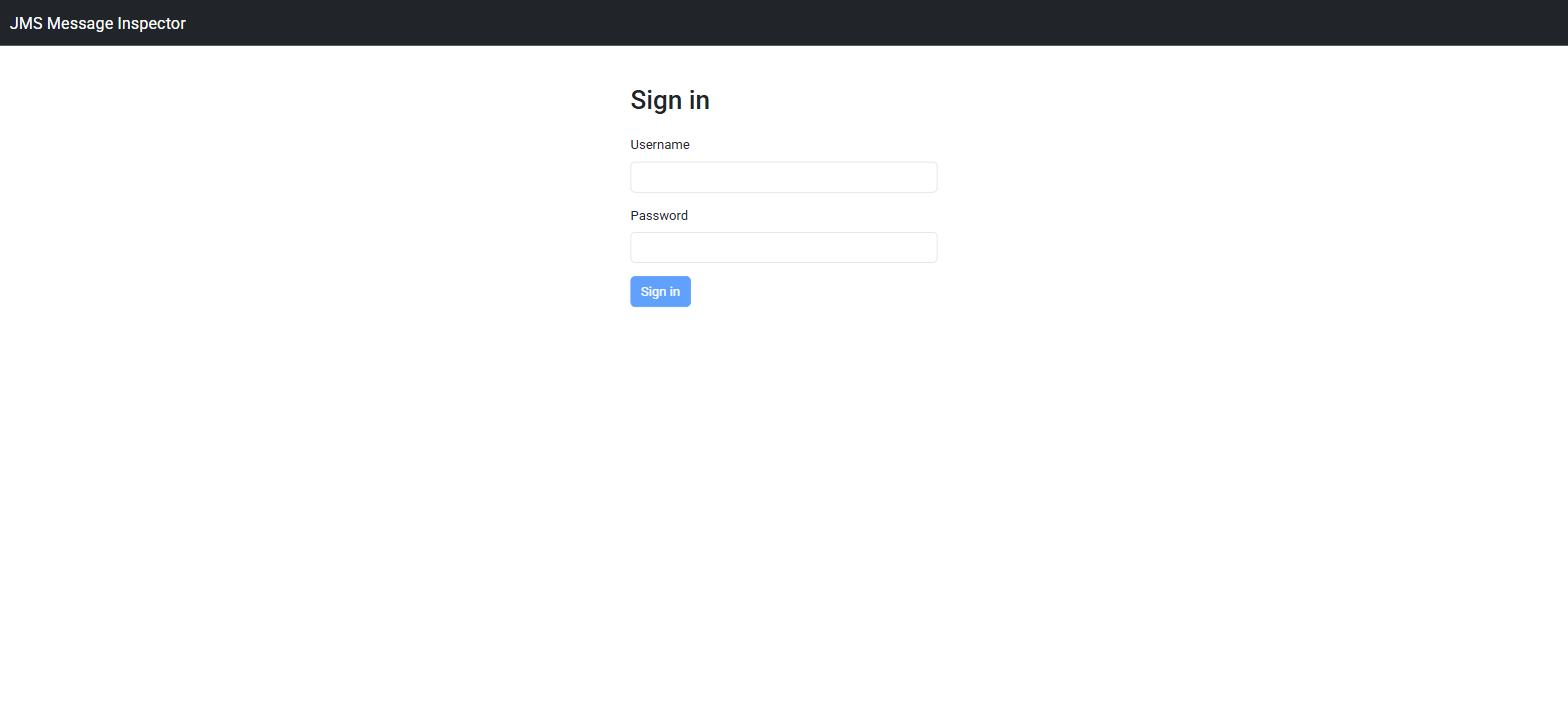
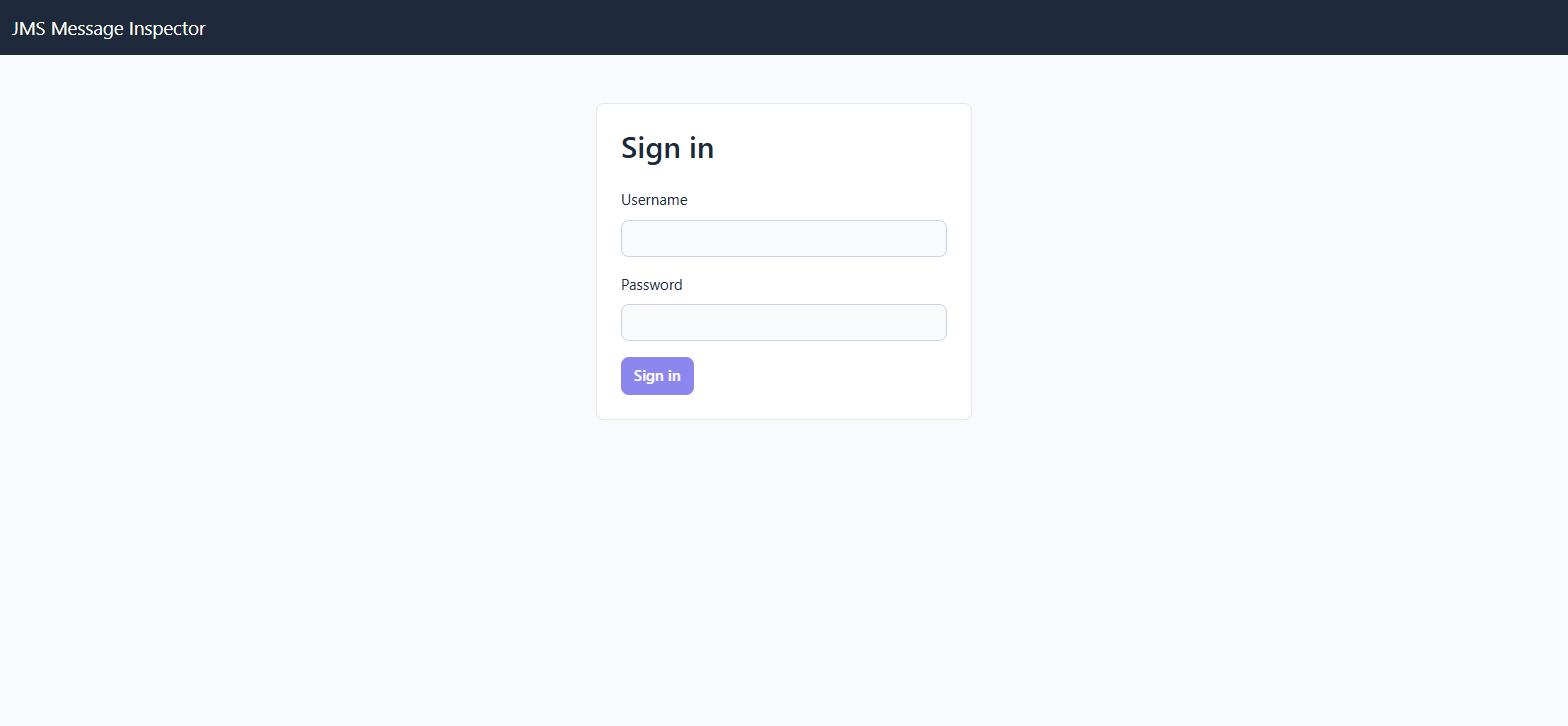
docs: update for Angular 22, Node 24 and lint; recapture screenshots

diff --git a/CLAUDE.md b/CLAUDE.md
@@ -11,20 +11,25 @@ block over any phase numbering left behind in code comments.
 
 ## Commands
 
-Angular CLI 16 project (`ng` via `npx ng` or the npm scripts):
+Angular CLI 22 project on **Node 24** (`ng` via `npx ng` or the npm scripts):
 
 - `npm start` — dev server on http://localhost:4200 (`ng serve`, development config)
-- `npm run build` — production build to `dist/message-inspector-ui`
+- `npm run build` — production build to `dist/message-inspector-ui/browser/` (the esbuild
+  `@angular/build:application` builder's layout — not `dist/message-inspector-ui` itself)
 - `npm run watch` — incremental development build
 - `npm test` — Karma + Jasmine in a launched Chrome, watch mode
+- `npm run lint` — angular-eslint over `src/**/*.ts` and `src/**/*.html`
 - `npm run mock` — the mock backend on :8080 in place of the real Spring/Artemis stack
 
-Running a subset of tests: there is no `karma.conf.js` (the CLI karma builder generates the
-config), so use Jasmine focus instead — change `describe`/`it` to `fdescribe`/`fit` in the spec,
-or filter in the Karma browser UI. For a single non-watch run:
-`npx ng test --watch=false --browsers=ChromeHeadless`.
+Running a subset of tests: there is no `karma.conf.js` (the `@angular/build:karma` builder
+generates the config), so pass `--include src/app/path/to/file.spec.ts` to `ng test`, or use
+Jasmine focus — change `describe`/`it` to `fdescribe`/`fit` in the spec, or filter in the Karma
+browser UI. For a single non-watch run: `npx ng test --watch=false --browsers=ChromeHeadless`.
 
-There is no linter configured and no e2e setup.
+**Lint** is angular-eslint's recommended set (`eslint.config.js`, flat config) with three rules
+turned off, each commented with why: `prefer-standalone` (NgModule by design),
+`prefer-on-push-component-change-detection` (Eager on purpose, see Architecture) and
+`prefer-inject` (constructor injection is the house style). There is no e2e setup.
 
 **Mock backend** (`mock-server/`, its own README): a zero-dependency `node:http` stand-in for
 the Spring/Artemis stack, so the UI runs with no Docker, broker or JVM. `npm run mock` serves
@@ -33,16 +38,30 @@ failure modes — the 200-with-`success:false` envelope, the bodyless 401 and 40
 — none of which are otherwise reachable without breaking a real broker. It is hand-written
 against the backend, so **the backend is the authority whenever the two disagree**.
 
-**CI** (`.github/workflows/ci.yml`, Phase 7): on push/PR to `master`, `npm ci` → the
-headless test command above → `npm run build`. Node is pinned to **20.11.1** via `.nvmrc`
-(Angular 16 rejects Node 24), read by the workflow through `node-version-file`. ubuntu-latest
+**CI** (`.github/workflows/ci.yml`, Phase 7): on push/PR to `master`, `npm ci` →
+`npm run lint` → the headless test command above → `npm run build`. Node is pinned to
+**24.18.0** via `.nvmrc` (Angular 20+ rejects the old 20.11.1 pin; Angular 22 accepts
+`^22.22.3 || ^24.15 || >=26`), read by the workflow through `node-version-file`. ubuntu-latest
 ships Google Chrome for the ChromeHeadless run.
 
 ## Architecture
 
-Angular 16 **NgModule** app (not standalone components) — everything is declared in
-`src/app/app.module.ts`. Frontend only; it talks to a separate Spring/JMS backend expected at
+Angular 22 **NgModule** app (not standalone components) — everything is declared in
+`src/app/app.module.ts`, and every declaration carries `standalone: false` (standalone is the
+default since Angular 19). Frontend only; it talks to a separate Spring/JMS backend expected at
 `http://localhost:8080`.
+
+**Change detection is zone-based and Eager, deliberately.** `main.ts` bootstraps through
+`platformBrowser()` with `provideZoneChangeDetection()`, and zone.js is still loaded. Every
+component declares `changeDetection: ChangeDetectionStrategy.Eager` because Angular 22 made
+OnPush the default; Eager is the pre-22 behaviour this code is written for — fields assigned in
+`subscribe` callbacks, which OnPush would not re-render. Give a new component the same two
+settings (`ng generate` emits a standalone OnPush component). Templates use the built-in
+control flow (`@if` / `@for`), not `*ngIf` / `*ngFor`.
+
+**HTTP** is `provideHttpClient(withXhr(), withInterceptorsFromDi())` in `AppModule`.
+`withInterceptorsFromDi()` is what keeps the class-based `AuthInterceptor` in the chain;
+`withXhr()` keeps the XMLHttpRequest backend Angular 22 replaced with `fetch` as the default.
 
 **Domain:** a browser UI for inspecting ActiveMQ Artemis JMS queues — list queues, list messages
 on a queue, view a message, and resend / delete / move-to-DLQ it.
@@ -109,7 +128,7 @@ Destructive actions there go through `showDeleteConfirm()` / `showDLQConfirm()`,
 straight to `onDeleteConfirmed()` / `onDLQConfirmed()` — a spec guards this, because the
 template previously called the latter and the modal never opened. `MessageListComponent` carries
 the same confirm shape for its per-row actions, and mounts `<app-queue-dropdown>`
-(`message-list.component.html:12`) — that mounting is what gives `QueueSelectionService` a
+(`message-list.component.html:14`) — that mounting is what gives `QueueSelectionService` a
 writer. The list also still accepts a queue typed into its text box.
 
 **Shared** — `shared/models/` holds `JmsMessage` and `ApiResponse`.
@@ -124,7 +143,10 @@ prebuilt CSS, so `src/styles/_tokens.scss` can override its `!default` variables
 used. The import order there is load-bearing: `bootstrap/scss/functions`, then the tokens, then
 `bootstrap/scss/bootstrap`. The bare `bootstrap/...` paths resolve through
 `stylePreprocessorOptions.includePaths` in `angular.json` — set on the **build and test builders
-both**, or the suite fails to compile while the app builds fine. Per-component SCSS on top of that.
+both**, or the suite fails to compile while the app builds fine. The same block carries
+`sass.silenceDeprecations: ["import"]` on both builders: Bootstrap 5.3 is consumed through
+`@import`, which Dart Sass deprecates, and it has no `@use` API to migrate to. Per-component SCSS
+on top of that.
 Angular Material is gone entirely, dependency included — all UI is Bootstrap markup. TypeScript is
 in `strict` mode with `strictTemplates`.
 
@@ -161,6 +183,23 @@ in `strict` mode with `strictTemplates`.
   Each has a template-level spec that clicks the rendered button — a spec calling
   `showDeleteConfirm()` directly passes just as happily when the button is rewired straight to
   `deleteMessage()`, which is how the bug existed in both templates.
+- **The modal's outputs are `confirm` and `cancelled`** (`cancel` until the Angular 22 upgrade;
+  it shadowed the DOM `cancel` event). A binding to an output the child does not declare still
+  compiles — Angular binds it as a native DOM listener — so a stale `(cancel)` leaves Cancel dead
+  with no error. Each view has a spec that clicks the rendered modal's Cancel for this reason.
+- **ngx-toastr is held on Angular 22 by an npm `overrides` entry in `package.json`.** 19.x no
+  longer builds on 22 (it injects `ComponentFactoryResolver`, which 22 no longer exports), and
+  20.0.5 — the newest release — declares peers `@angular/common|core ^21`, so `npm install` fails
+  ERESOLVE without the override re-pointing them at the root versions. Drop it once ngx-toastr
+  declares 22. `@angular/animations` is gone too: ngx-toastr 20 animates without it, so do not
+  re-add `BrowserAnimationsModule`.
+- **The Jasmine that runs is karma-jasmine's, not the root `jasmine-core`.** karma-jasmine 5.1.0
+  (the final release; Karma is deprecated) depends on `jasmine-core ^4.1.0` and resolves it from
+  its own directory, so the root `jasmine-core` / `@types/jasmine` are held on 4.6 to match it —
+  the root copy only feeds the HTML reporter. Forcing Jasmine 5+ with an override fails the run:
+  it reports the router's internal `NoMatch` rejections (caught by the router, invisible in the
+  app) as unhandled, and 6 adds unsupported-configuration warnings from zone.js's Jasmine patch.
+  Vitest is the way forward, not a newer Jasmine under Karma.
 - **Pass route params to `Router.navigate` raw.** The Router encodes path segments,
   `ActivatedRoute` decodes them, and `MessageService` encodes for the HTTP call — one encode per
   boundary. Pre-encoding in `viewMessage()` produced `%253A`, which **Tomcat rejects with a 400

diff --git a/README.md b/README.md
@@ -2,7 +2,7 @@
 
 [![CI](https://github.com/Jason-McKay/message-inspector-ui/actions/workflows/ci.yml/badge.svg)](https://github.com/Jason-McKay/message-inspector-ui/actions/workflows/ci.yml)
 
-An Angular 16 front end for inspecting **ActiveMQ Artemis JMS queues**: pick a queue, browse
+An Angular 22 front end for inspecting **ActiveMQ Artemis JMS queues**: pick a queue, browse
 its messages, view one (with pretty-printed JSON/XML payloads), and resend / delete / move
 it to a dead-letter queue. It talks to the
 [Spring Boot backend](https://github.com/Jason-McKay/message-inspector) on `:8080`.
@@ -41,14 +41,17 @@ flowchart TD
 
 ## Running it
 
-Needs the **backend running on `:8080`** (see its repo) and **Node 20.11.1** — Angular 16
-does not support the global Node 24, so pin it:
+Needs the **backend running on `:8080`** (see its repo) and **Node 24** — `.nvmrc` pins
+24.18.0, and Angular 22 accepts `^22.22.3 || ^24.15 || >=26`:
 
 ```bash
-nvm use 20.11.1     # nvm install 20.11.1 first if needed
+nvm use 24.18.0     # nvm install 24.18.0 first if needed
 npm install
 npm start           # ng serve on http://localhost:4200
 ```
+
+No backend to hand? `npm run mock` serves a stand-in on `:8080` with a control panel for
+forcing each failure mode — see [`mock-server/README.md`](mock-server/README.md).
 
 Log in with `jason`/`jason` (USER) or `admin`/`admin` (ADMIN — the only role that can delete
 or move to DLQ).
@@ -57,6 +60,7 @@ or move to DLQ).
 
 ```bash
 npx ng test --watch=false --browsers=ChromeHeadless
+npm run lint        # angular-eslint, src/**/*.ts and src/**/*.html
 ```
 
 The suite is behavioural, not smoke-only: it runs against jasmine-spied services (not
@@ -65,9 +69,13 @@ and HTTP-level failure. Destructive actions carry template-level specs that clic
 rendered button — a regression guard, because the bug they prevent (wiring a button straight
 to the service, bypassing the confirm modal) passes a spec that calls the handler directly.
 
-This exact command runs on every push/PR in CI
-([`.github/workflows/ci.yml`](.github/workflows/ci.yml)), on **Node 20.11.1** (pinned in
-`.nvmrc`; Angular 16 rejects Node 24) followed by a production `npm run build`.
+Lint is angular-eslint's recommended set with three rules turned off, each commented with
+why in [`eslint.config.js`](eslint.config.js): standalone components, OnPush and `inject()`
+would each be a refactor of the house style, not a lint fix.
+
+Both commands run on every push/PR in CI
+([`.github/workflows/ci.yml`](.github/workflows/ci.yml)), lint first, on **Node 24.18.0**
+(pinned in `.nvmrc`) followed by a production `npm run build`.
 
 ## Patterns worth knowing before you touch a service call
 
